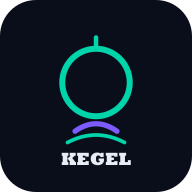
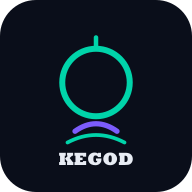
feat: rebrand app to KEGOD
- Update app name to "KEGOD — Deviens une machine" across all files
- Rebrand hero, title, meta tags, manifest, privacy policy
- Regenerate all icons with KEGOD text
- New cache name kegod-v1

Changed region(s): [[0.2812, 0.7812, 0.7188, 0.875]]

diff --git a/index.html b/index.html
@@ -3,16 +3,16 @@
 <head>
 <meta charset="UTF-8">
 <meta name="viewport" content="width=device-width, initial-scale=1.0, viewport-fit=cover">
-<title>Routine Kegel Homme — Programme Complet</title>
+<title>KEGOD — Deviens une machine</title>
 
 <!-- PWA -->
 <link rel="manifest" href="manifest.json">
 <meta name="theme-color" content="#00d4aa">
 <meta name="apple-mobile-web-app-capable" content="yes">
 <meta name="apple-mobile-web-app-status-bar-style" content="black-translucent">
-<meta name="apple-mobile-web-app-title" content="Kegel">
+<meta name="apple-mobile-web-app-title" content="KEGOD">
 <link rel="apple-touch-icon" href="icons/icon-192.png">
-<meta name="description" content="Renforcez votre plancher pelvien en 8 semaines. Programme progressif complet avec minuteurs integres.">
+<meta name="description" content="KEGOD — Programme Kegel homme : renforcez votre plancher pelvien en 8 semaines. Minuteurs guides, animations et audio.">
 
 <link rel="preconnect" href="https://fonts.googleapis.com">
 <link rel="preconnect" href="https://fonts.gstatic.com" crossorigin>
@@ -456,8 +456,8 @@
 <div id="view-accueil" class="view active">
   <div class="accueil-header">
     <div class="hero-badge"><span class="dot"></span>Programme Homme</div>
-    <h1>Exercices de <span class="highlight">Kegel</span></h1>
-    <p class="subtitle">Renforcez votre plancher pelvien en 8 semaines. Programme progressif avec minuteurs integres.</p>
+    <h1><span class="highlight">KEGOD</span></h1>
+    <p class="subtitle">Deviens une machine. Programme Kegel en 8 semaines avec minuteurs guides.</p>
     <div class="hero-stats">
       <div class="hero-stat"><div class="num">8</div><div class="label">Semaines</div></div>
       <div class="hero-stat"><div class="num">3x</div><div class="label">Par jour</div></div>

diff --git a/privacy.html b/privacy.html
@@ -3,7 +3,7 @@
 <head>
 <meta charset="UTF-8">
 <meta name="viewport" content="width=device-width, initial-scale=1.0">
-<title>Politique de confidentialité — Kegel App</title>
+<title>Politique de confidentialité — KEGOD</title>
 <style>
   :root {
     --bg: #0a0e1a;
@@ -87,7 +87,7 @@
 </div>
 
 <h2>1. Données collectées</h2>
-<p><strong>Aucune.</strong> L'application « Routine Kegel Homme » (ci-après « l'Application ») ne collecte aucune donnée personnelle, aucune donnée d'utilisation, et aucune information permettant d'identifier l'utilisateur.</p>
+<p><strong>Aucune.</strong> L'application « KEGOD » (ci-après « l'Application ») ne collecte aucune donnée personnelle, aucune donnée d'utilisation, et aucune information permettant d'identifier l'utilisateur.</p>
 
 <h2>2. Stockage local</h2>
 <p>L'Application peut utiliser le stockage local du navigateur (localStorage, Cache API) uniquement pour :</p>

diff --git a/sw.js b/sw.js
@@ -1,4 +1,4 @@
-const CACHE_NAME = 'kegel-v4';
+const CACHE_NAME = 'kegod-v1';
 const ASSETS = [
   '/',
   '/index.html',
